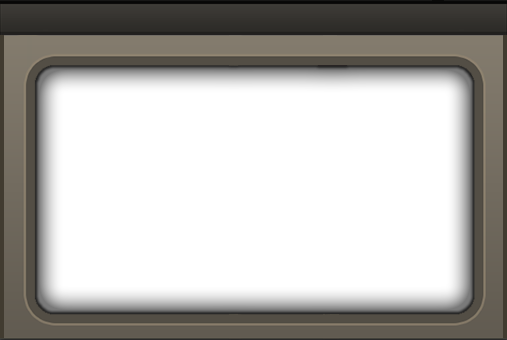
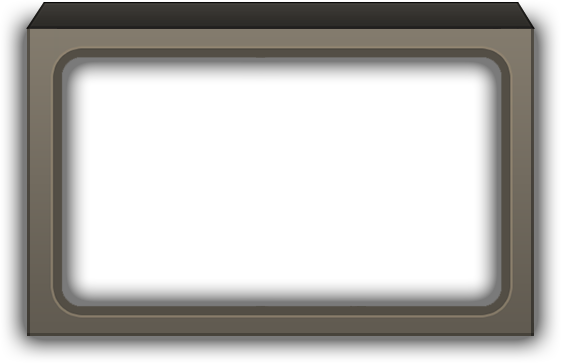
F

diff --git a/index.html b/index.html
@@ -16,21 +16,12 @@
           <img class="frame" src="images/frame.png"/>
           <iframe src="https://www.youtube.com/embed/9-ScZOiRGV4?si=TqzfloEaCIaotIgS" title="YouTube video player" frameborder="2" allow="accelerometer; autoplay; clipboard-write; encrypted-media; gyroscope; picture-in-picture; web-share" allowfullscreen></iframe>
         </div>
-        <br>
+        <br><br>
         <div class ="background">
            <img width="800" src="images/bg-text.png"/> <br>
-           <div class="text centered">HELP YOUR <span style="color:#f13030"></spanstyle><b>COUNTRYBALL</b></span> REACH SPACE AND WITH THE RACE ! TRY, EARN MONEY, INVEST IT AND TRY AGAIN !</div>
+           <div class="text centered">HELP YOUR <span style="color:#f13030"></spanstyle><b>COUNTRYBALL</b></span> REACH THE HIGHEST ALTITUDE AND WIN THE SPACE RACE ! TRY, EARN MONEY, INVEST IT AND TRY AGAIN</div>
         </div>
-        <div class ="background">
-          <img width="800" src="images/bg-screens.png"/> 
-          <div class="centered">
-            <img class="preview" src="images/screen1.png"/>
-            <img class="preview" src="images/screen2.png"/>
-            <img class="preview" src="images/screen3.png"/>
-            <img class="preview" src="images/screen4.png"/>
-            <img class="preview" src="images/screen5.png"/>
-          </div>
-        </div>
+
           <div id="dl">
           <div>
             <a href="https://play.google.com/store/apps/details?id=com.TheCauldron.CountryBallSpaceRace"><img class="imgdl"  src="images/google.png"/></a>

diff --git a/style.css b/style.css
@@ -20,7 +20,7 @@ body {
 .text {
   text-align: center;
   text-shadow: 0px 2px 3px black;
-  font-size: 29px;
+  font-size: 32px;
   color: aliceblue;
 }
 
@@ -30,11 +30,9 @@ body {
 }
 
 .logo {
-  margin-left: 20px;
-  margin: 20px;
-  position: absolute;
-  top: 0px;
-  left: 0px;
+  margin-left: 200px;
+  margin-top: 10px;
+  margin-bottom: 40px;
 }
 
 .background {
@@ -77,7 +75,7 @@ canvas {
 
 .centered {
   position: absolute;
-  width: 90%;
+  width: 80%;
   top: 50%;
   left: 50%;
   transform: translate(-50%, -50%);
@@ -98,9 +96,9 @@ canvas {
 
 .frame {
   position: absolute;
-  margin-left: 175px;
+  margin-left: 150px;
   pointer-events: none;
   cursor: default;
-  margin-top: -65px;
+  margin-top: -55px;
   z-index: 10;
 }
